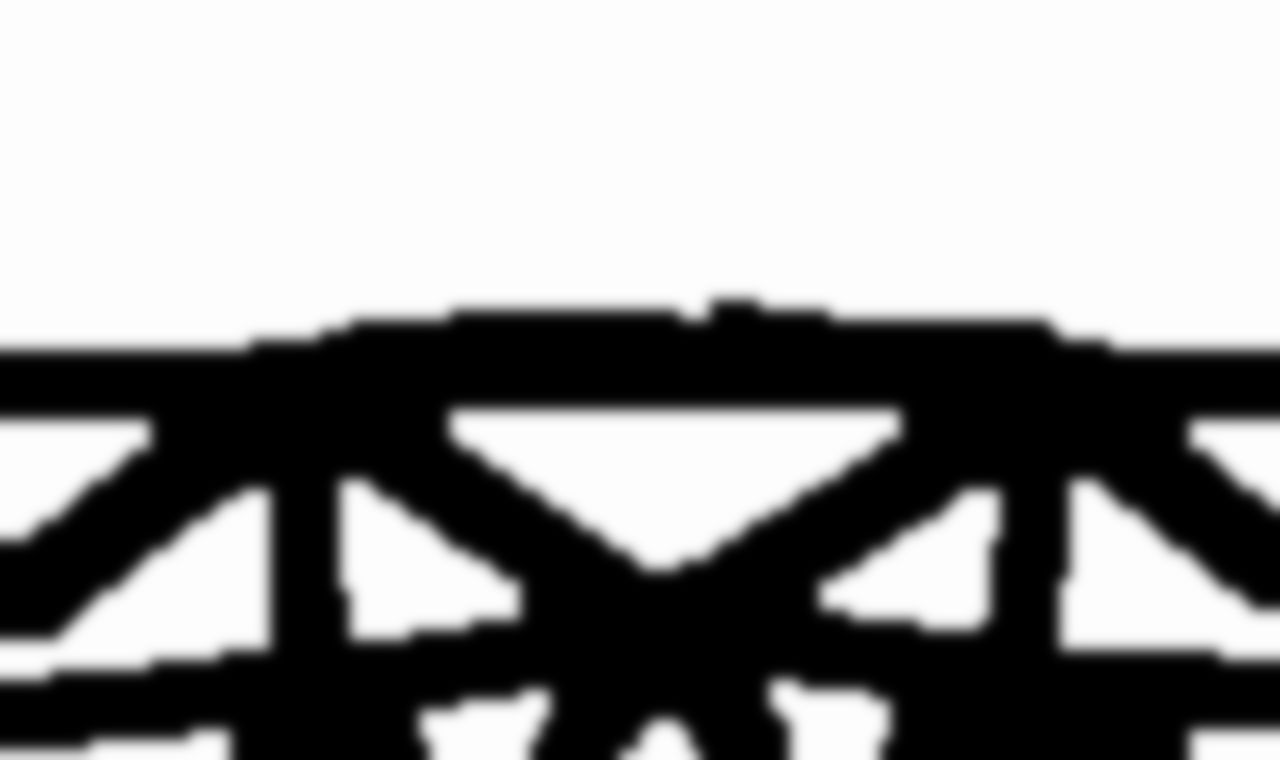
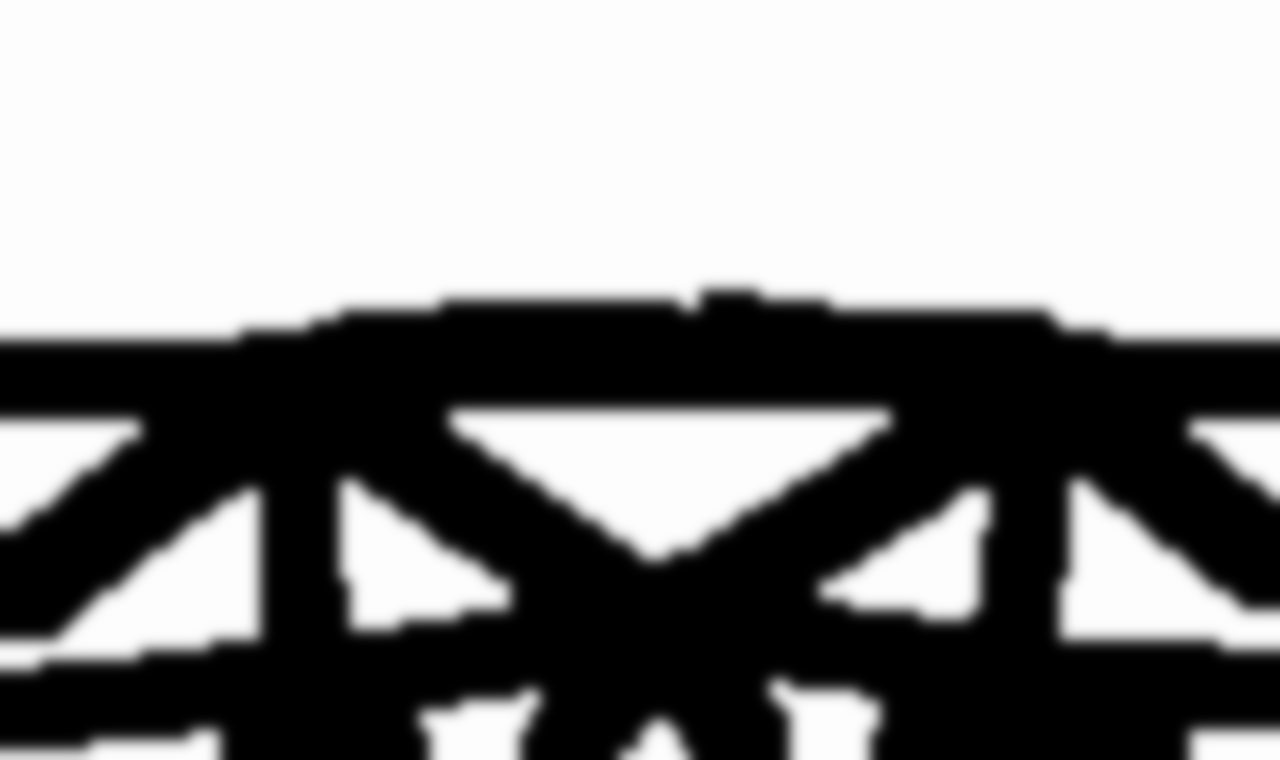
!

diff --git a/CAGE_DETECTION_V2.1.py b/CAGE_DETECTION_V2.1.py
@@ -3,7 +3,7 @@ import cv2
 import matplotlib.pyplot as plt
 import os
 
-
+#readind files, starting from 1st; then resizind to 1280:760.
 def img_read(input_dir, size):
     input_images = [cv2.imread(os.path.join(input_dir, i)) for i in sorted(os.listdir(input_dir)) if i.endswith('png')]
 
@@ -27,7 +27,7 @@ def processing(img, c1=110, c2=400):
     return img_comb
 
 
-def morphologic(img_comb, iter_d=3, iter_e=2):
+def morphologic(img_comb, iter_d=3, iter_e=1):
     dilation = cv2.dilate(img_comb, np.ones((3, 3), np.uint8), iterations=iter_d)
     img_mask = cv2.erode(dilation, np.ones((2, 2), np.uint8), iterations=iter_e)
     return img_mask
@@ -73,4 +73,6 @@ if __name__ == '__main__':
             cv2.imwrite(os.path.join(folder_with_result, pic_name + '_masked.png'), result)
 
 plt.imshow(mask, cmap='gray')
+plt.show()
+plt.imshow(result)
 plt.show()
